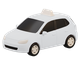
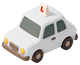
REG-793: auto 3D nuova come quella della copertina Home
Auto clay tondeggiante con cartello L, rigenerata su Gemini e ricolorata
nei 10 colori del backend (stessi nomi e tela: cambia ovunque via car34Art).
Ricetta copertine/auto in design-system §0.9, script dei colori e dei verdi
in scripts/, riga car34Art in impact-map.

diff --git a/scripts/auto-colori.py b/scripts/auto-colori.py
@@ -1,0 +1,90 @@
+"""Auto rossa su bianco (Gemini) -> PNG trasparenti auto-34-<colore>{,@2x,@3x}.png.
+
+python3 scripts/auto-colori.py <auto-rossa.png|jpeg> assets/road/cars
+Ricetta e prompt: docs/design-system.md §0.9 «Copertine e auto» (REG-793).
+Il corpo rosso (componente rossa più grande) prende il colore del veicolo
+mantenendo luci e ombre; la L rossa sul cartello resta rossa.
+"""
+import sys, colorsys
+import numpy as np
+from PIL import Image, ImageFilter
+from scipy import ndimage
+
+src, out = sys.argv[1], sys.argv[2]
+im = Image.open(src).convert('RGB')
+a = np.asarray(im).astype(np.float32) / 255.0
+H, W, _ = a.shape
+
+# 1) sfondo: bianco quasi puro collegato ai bordi
+mx, mn = a.max(2), a.min(2)
+white = (mn > 0.90) & (mx - mn < 0.06)
+lab, _ = ndimage.label(white)
+border = set(np.unique(np.concatenate([lab[0], lab[-1], lab[:, 0], lab[:, -1]]))) - {0}
+bg = np.isin(lab, list(border))
+fg = ~bg
+fg = ndimage.binary_fill_holes(fg)
+fg = ndimage.binary_opening(fg, iterations=2)
+# tieni solo l'oggetto principale
+lab2, n2 = ndimage.label(fg)
+if n2 > 1:
+    sizes = ndimage.sum(fg, lab2, range(1, n2 + 1))
+    fg = lab2 == (1 + int(np.argmax(sizes)))
+alpha = Image.fromarray((fg * 255).astype(np.uint8)).filter(ImageFilter.GaussianBlur(1.2))
+alpha = np.asarray(alpha).astype(np.float32) / 255.0
+alpha = np.clip((alpha - 0.15) / 0.85, 0, 1)
+
+# 2) corpo rosso: solo tinta rossa satura (esclude paraurti marrone, fari gialli,
+#    gomme scure, cartello crema); poi i riflessi rosati collegati al corpo
+hsv = np.asarray(im.convert('HSV')).astype(np.float32)
+hh, ss, vv = hsv[..., 0], hsv[..., 1], hsv[..., 2]
+redhue = (hh <= 14) | (hh >= 245)
+red = redhue & (ss >= 110) & (vv >= 60) & fg
+red = ndimage.binary_opening(red, iterations=1)
+lab3, n3 = ndimage.label(red)
+sizes = ndimage.sum(red, lab3, range(1, n3 + 1))
+big = sizes.max()
+body = np.isin(lab3, [i + 1 for i, sz in enumerate(sizes) if sz > 0.05 * big])
+soft = ((hh <= 16) | (hh >= 240)) & (ss >= 60) & (vv >= 150) & fg
+body = ndimage.binary_propagation(body, mask=soft | body)
+v = mx
+# bordo morbido del corpo per non lasciare aloni rossi
+bodyw = ndimage.gaussian_filter(body.astype(np.float32), 1.0)
+vref = float(np.median(v[body]))
+factor = v / max(vref, 1e-6)
+
+TARGETS = {
+    'bianco': (243, 240, 236, 0.55),
+    'argento': (212, 213, 214, 0.7),
+    'grigio': (145, 147, 149, 0.9),
+    'nero': (62, 62, 64, 1.0),
+    'rosso': None,
+    'arancio': (232, 112, 40, 1.0),
+    'giallo': (240, 190, 40, 1.0),
+    'verde': (52, 150, 100, 1.0),
+    'azzurro': (90, 176, 212, 1.0),
+    'blu': (36, 70, 140, 1.0),
+}
+
+def save(rgb, name):
+    rgba = np.dstack([np.clip(rgb, 0, 1), alpha])
+    img = Image.fromarray((rgba * 255).round().astype(np.uint8), 'RGBA')
+    img = img.crop(img.getbbox())
+    for scale, (cw, ch) in (('@3x', (240, 195)), ('@2x', (160, 130)), ('', (80, 65))):
+        pad = round(cw * 0.02)
+        k = min((cw - 2 * pad) / img.width, (ch - 2 * pad) / img.height)
+        t = img.resize((max(1, round(img.width * k)), max(1, round(img.height * k))), Image.LANCZOS)
+        canvas = Image.new('RGBA', (cw, ch), (0, 0, 0, 0))
+        canvas.paste(t, ((cw - t.width) // 2, ch - pad - t.height), t)
+        canvas.save(f'{out}/auto-34-{name}{scale}.png', optimize=True)
+
+for name, tgt in TARGETS.items():
+    if tgt is None:
+        rgb = a
+    else:
+        tr, tg, tb, k = tgt
+        f = 1 + k * (factor - 1)
+        col = np.stack([np.full((H, W), tr / 255), np.full((H, W), tg / 255), np.full((H, W), tb / 255)], -1) * f[..., None]
+        # riflessi: un po' di bianco dove l'originale era molto chiaro
+        rgb = a * (1 - bodyw[..., None]) + col * bodyw[..., None]
+    save(rgb, name)
+    print('ok', name)

diff --git a/scripts/sbiadisci-verdi.py b/scripts/sbiadisci-verdi.py
@@ -1,0 +1,32 @@
+"""Sbiadisce SOLO i verdi di un'illustrazione (prati, alberi), lasciando gli altri colori.
+
+python3 scripts/sbiadisci-verdi.py <ingresso.jpg> <uscita.jpg> [saturazione] [schiarita] [gradi-verso-giallo]
+Default = «molto forte» scelto da Tiziano per la copertina della Home (REG-793):
+saturazione rimasta 0.42 (−58%), schiarita 0.25 verso il bianco, tinta −8° (resta calda).
+Altre prove: lieve 0.80/0.08/0, media 0.66/0.15/0, forte 0.55/0.20/5.
+"""
+import sys
+import numpy as np
+from PIL import Image
+
+src, dst = sys.argv[1], sys.argv[2]
+ks = float(sys.argv[3]) if len(sys.argv) > 3 else 0.42
+kv = float(sys.argv[4]) if len(sys.argv) > 4 else 0.25
+dh = float(sys.argv[5]) if len(sys.argv) > 5 else 8
+
+im = Image.open(src).convert('RGB')
+hsv = np.asarray(im.convert('HSV')).astype(np.float32) / 255
+h, s, v = hsv[..., 0] * 360, hsv[..., 1], hsv[..., 2]
+
+
+def bump(x, lo, hi, soft):
+    return np.clip((x - lo) / soft, 0, 1) * np.clip((hi - x) / soft, 0, 1)
+
+
+# peso morbido sulle tinte verdi (65°–175°), solo dove c'è colore
+w = bump(h, 65, 175, 15) * np.clip((s - 0.12) / 0.15, 0, 1)
+s2 = s * (1 - w * (1 - ks))
+v2 = v + (1 - v) * kv * w
+h2 = (h - dh * w) % 360
+arr = np.dstack([h2 / 360, s2, v2])
+Image.fromarray((np.clip(arr, 0, 1) * 255).round().astype(np.uint8), 'HSV').convert('RGB').save(dst, quality=92)

diff --git a/docs/design-system.md b/docs/design-system.md
@@ -211,7 +211,7 @@ fissa** (saluto + titolo + bottoni) perché sotto scorre la griglia.
 `ClayPageHeader` (testata dentro lo scroll, che non collassa) resta **solo
 nell'app allievo**, in attesa del suo giro.
 
-**Copertina elastica** (REG-661, 30/10, `src/components/clay/StretchyCover.tsx`): per le pagine con mappa o illustrazione in alto (home Road, Punti critici, allievo: Home `home-quartiere`, Guide `guide-strada`, Scambi `scambi-chiavi`). Le illustrazioni di copertina riempiono tutto il quadro (niente diorama sul vuoto), colori caldi e verdi sbiaditi, soggetto in basso a sinistra/centro: in alto a destra c'è la campanella. La copertina sta dietro lo scroll; copertina e foglio scorrono insieme; tirando giù la copertina si allarga ancorata in alto (niente vuoto bianco), scorrendo su sale a metà velocità. Con poco contenuto la copertina riempie lo spazio, il foglio arriva alla tab bar e lo scroll si ferma dove finisce il contenuto. Solo transform guidati dallo scroll; cambi di altezza in 220 ms senza rimbalzo.
+**Copertina elastica** (REG-661, 30/10, `src/components/clay/StretchyCover.tsx`): per le pagine con mappa o illustrazione in alto (home Road, Punti critici, allievo: Home `home-quartiere`, Guide `guide-strada`, Scambi `scambi-chiavi`). Ricetta in §0.9 «Copertine e auto». Le illustrazioni di copertina riempiono tutto il quadro (niente diorama sul vuoto), colori caldi e verdi sbiaditi, soggetto in basso a sinistra/centro: in alto a destra c'è la campanella. La copertina sta dietro lo scroll; copertina e foglio scorrono insieme; tirando giù la copertina si allarga ancorata in alto (niente vuoto bianco), scorrendo su sale a metà velocità. Con poco contenuto la copertina riempie lo spazio, il foglio arriva alla tab bar e lo scroll si ferma dove finisce il contenuto. Solo transform guidati dallo scroll; cambi di altezza in 220 ms senza rimbalzo.
 
 ### 0.6 Fogli — adattivi, testata fissa e opaca, CTA fissa, X, niente grabber
 
@@ -417,6 +417,65 @@ reference di Gabriele con cui è stato approvato il metodo il 28/10/2026.
 **Autorizzazione:** le sessioni di sviluppo sono AUTORIZZATE da Tiziano a usare
 il Mac a CONTROLLO COMPLETO (usa_il_mac, non limitato a Chrome) per generare le
 icone su Gemini, senza chiedere.
+
+#### Copertine e auto (REG-793, 25/11/2026)
+
+**Copertine delle sezioni allievo** (Home `home-quartiere`, Guide `guide-strada`,
+Scambi `scambi-chiavi`; vedi la copertina elastica in §0.5). Regole venute
+dalle bocciature di Tiziano: scena a **pieno quadro** (niente diorama o isola
+sul vuoto, niente fondo vuoto), **pochissimo grigio** (strade solo come nastri
+crema, mai asfalto o piazzali), colori caldi dagli oggetti, soggetto **in basso
+a sinistra/al centro** (in alto a destra c'è la campanella, in basso il foglio
+che sale). Una scena per chat nuova su Gemini, 3 allegati: le 2 reference di
+stile (`docs/assets/icone-ref/ref1.png`, `ref2.png`) + la copertina di Guide
+(`assets/vita/guide-strada@3x.jpg`) come reference di **composizione**. Prompt
+della Home (le altre scene cambiano solo la riga `Scene:`):
+
+```
+Premium 3D clay illustration in the spirit of Airbnb's 2025 app icons: real-world objects, softly simplified, friendly but adult, clean rounded shapes. Material: matte satin soft-touch clay, slightly puffy edges, generous rounded bevels. Light: bright warm morning sunlight from the top-left, golden and cheerful, soft ambient occlusion, short soft WARM shadows (peachy), never grey. Mood: lively, happy, a sunny "good morning", immersive.
+
+Format and composition: wide landscape 3:2. The scene FILLS THE ENTIRE FRAME edge to edge, like the third attached image (a road that enters and leaves the frame): it is a close-up crop of a bigger world, seen from above at about 40 degrees. Lawns, roads, trees and flowers touch and run off all four edges of the image. NO diorama, NO island, NO floating platform, NO empty background, NO visible ground edge, no horizon. Keep the top-right corner a little calmer (only soft lawn, no tall or busy objects there) and keep the bottom strip simple (lawn or road) because it will be covered. Put the most important objects in the centre and left-centre.
+
+Colours: vivid fresh leaf greens #2FA36B and #6CC08B for lawns and round trees, light warm cream #F1E9DD for roads and paths with white dashes, warm off-white #FAF7F2 for buildings, one signal red #E5484D car, touches of sunny yellow #F5C542 and warm orange #F5A524 (flowers, awnings, cones). Very little grey. No blue, no pink, no purple. Not photorealistic, no emoji style, no faces, no people, no logos, no watermark, no text.
+
+Use the first two attached images as style reference for material and light, and the third image as reference for the full-frame composition.
+
+Scene: a close-up of a cosy neighbourhood. In the centre-left a small friendly off-white driving-school building with a rounded roof edge and a sunny yellow striped awning, surrounded by round green trees and bushes that run off the left and bottom edges. A light cream street passes in front of it and leaves the frame on both sides; a red driving-school car with a small white roof sign showing a red letter L (the only letter allowed) is parked in front. Small orange and yellow flowers in the lawn. Green lawn fills the rest of the frame.
+```
+
+Dopo la generazione i verdi si **sbiadiscono** a mano (Tiziano: «troppo
+accesa»): `python3 scripts/sbiadisci-verdi.py <in.jpg> <out.jpg>` (default
+«molto forte»: saturazione dei verdi −58%, più chiari, tinta 8° verso il giallo
+perché restino caldi; tocca solo 65°–175°, auto/tende/fiori restano uguali).
+Poi 1x/@2x/@3x = 390/780/1170 px di larghezza, JPEG 82.
+
+**Auto 3D** (`assets/road/cars/auto-34-<colore>`, usata ovunque da
+`car34Art`): l'auto della copertina — clay tondeggiante, fari gialli, cartello
+bianco a cuneo con la L rossa. Reference: il ritaglio dell'auto dalla copertina
+(UN solo allegato). Prompt:
+
+```
+Create a 3D clay icon of the small red car in the attached image, on its own: a cute compact rounded car, red body, dark grey windows, round yellow headlights, dark grey bumper, dark round wheels, and a small white wedge sign on the roof with a red letter L. Soft matte clay material with rounded puffy edges, soft warm light from the top-left. Three-quarter front view from slightly above, the car facing left, whole car centered and filling most of the square frame. Plain pure white background, no floor, no shadow, nothing else.
+```
+
+Poi i 10 colori del backend (`CAR_COLOR_KEYS`) con
+`python3 scripts/auto-colori.py <auto-rossa.png> assets/road/cars`: toglie il
+bianco attorno (alfa morbida), ricolora solo la carrozzeria tenendo luci e
+ombre. La carrozzeria si riconosce dalla **tinta**: rosso saturo (tinta PIL
+≤14 o ≥245, saturazione ≥110, luminosità ≥60) + i riflessi rosati collegati;
+così paraurti marrone, fari gialli, gomme scure e cartello crema restano
+com'erano e la L (staccata dal corpo) resta rossa. Controllare sempre il
+foglio coi 10 colori prima di copiare: se un pezzo nuovo del modello cambia
+colore, va stretta la soglia. Lo script scrive i PNG con gli stessi nomi e la stessa tela (240×195 @3x, auto
+appoggiata in basso): l'auto cambia in tutta l'app senza toccare il codice.
+
+Auto attuale: generata il 26/11 al primo tentativo con questo prompt.
+
+**Note operative** (25/11): con l'operatore del Mac UNA immagine per chiamata;
+dopo il download prendere solo il file di Download con l'orario di adesso
+(`ls -ltT`) e copiarlo con `cp`, mai `mv`. Dopo ~15 generazioni in un giorno
+Gemini può rifiutare tutto («I'm having a hard time…») senza avviso di quota:
+riprovare più tardi.
 
 ### 0.10 Componenti — `src/components/clay/` (import da `src/components/clay`)
 

diff --git a/docs/impact-map.md b/docs/impact-map.md
@@ -7,6 +7,7 @@ When modifying a feature, read its connected features to verify nothing breaks.
 | Component | Used by screens | Notes |
 |-----------|----------------|-------|
 | `src/components/clay/*` (clay v2, REG-639: `ClayButton`, `ClayIconButton`, `ClaySurface`, `ClayList/Row`, `ClaySearchField`, `ClaySegmented`, `Avatar`, `ClayMapControls`, `ClayStat`, `Icon3D`, e dalla notte del 28/10 `ClaySection`, `ClayToggle`, `ClayField`, `ClayEmpty`) + `theme/clay.ts`, icone 3D in `src/road/markerArt.ts` e `src/theme/moraleArt.ts` (§0.9) | Road: `drive/index`, `drive/avvia`, `app/road/index`, `riepilogo`, `segnala`, `home/road-*`, `manage-lesson-details` (variante `road`); dal 28/10 notte **tutta l'app istruttore/titolare**: Agenda (`IstruttoreHomeScreen`, `WeeklyAgendaView`, ~30 fogli di `home/`), Disponibilità (`InstructorAvailabilityScreen`, `DefaultAvailabilityEditor`, `PublicationModeEditor`, fogli di `role/`), tab «Tu» e sottosezioni (`MoreScreen`, `SettingsScreen`, `InstructorHoursScreen`, `VehiclesScreen`, `LocationsScreen`, `EvaluationSheetScreen`, `AppearanceSettingsScreen`, `OwnerInstructorScreen`, fogli di `more/`), `NotificationInboxScreen`, `RoadLessonCard`; **tutti i fogli** via la X (`SheetCloseButton`/`GlassCloseButton` → `ClayIconButton`) (la tab bar `AppTabBar` NON è clay: resta T1 piatta) | Toccare un preset di `CLAY_SHADOW` o un componente cambia tutte queste schermate. `RoadPressable`/`RoadAvatar` sono alias di `ClayPressable`/`Avatar`. Regole in design-system §0. |
+| `car34Art` (`src/road/markerArt.ts`) → `assets/road/cars/auto-34-<colore>{,@2x,@3x}.png` | allievo: Home (`AllievoHomeScreen`, `allievoHome/HomeSections`), `StudentGuideScreen`, `UpcomingLessonRow` («In programma»), `LessonSheetParts` (foglio guida), `LeaveLessonSheet`, `LessonReview`; istruttore/titolare: `RoadTabParts` (`RouteThumb`), `avvioParts`, `VehiclesScreen`, `createKinds` (agenda), `BookingForm`, `bookingExceptionParts`; `Icon3D` | REG-793 (26/11): l'auto della copertina Home. Sostituire i PNG (stessi nomi, tela 240×195 @3x, auto appoggiata in basso) cambia l'auto in TUTTE queste schermate senza toccare il codice. Ricetta e script dei colori in design-system §0.9 «Copertine e auto». |
 | `src/components/SheetScaffold.tsx` (`FormSheet`, `useSheetDismissGuard`) + `src/utils/sheetPresentation.ts` (`FORM_SHEET`) | ~70 fogli `FORM_SHEET` in `home/`, `more/`, `role/`, `drive/`, `road/` | REG-639 fluidità: i fogli si chiudono trascinando giù / toccando fuori. Un foglio che salva deve passare `busy` (e `dirty` se perde modifiche); un foglio che chiude con effetti `closeOnGesture`. La testata fissa è trasparente a riposo. `useSheetAnticipate` (28/10): chi chiude contenuto in altezza annuncia i px all'inizio, il foglio si accorcia insieme (oggi solo Pagamenti); l'altezza annunciata vale finché la misura non la raggiunge, max 700 ms. |
 | `src/components/FadeImage.tsx` + `src/services/userPhotos.ts` + `src/services/photoDiskCache.ts` (usati da `UserPhotoCircle` → `Avatar`) | tutti gli avatar (Allievi, Road, dettaglio allievo, picker, Tu), copertina sede (Disponibilità, Luoghi), foto profilo (Tu, Altro, editor) | Giro Road 28/10: `useUserPhotoUrl` restituisce `undefined` finché non si sa (skeleton), `null` senza foto. Mappa URL persistita in AsyncStorage `reglo.userPhotos.v1` (stale-while-revalidate); file foto in `cacheDirectory/photos/`. Entrambe svuotate all'uscita dall'account (`clearUserPhotoCache`). |
 | `src/components/AppTabBar.tsx` + `src/components/tabBarSpace.ts` + `app/(tabs)/_layout.tsx` (`sceneStyle`, `FULL_PAGES`) | tutte le schermate dentro le tab (tutti i ruoli); radici istruttore sotto il vetro: `IstruttoreHomeScreen` (FAB), `WeeklyAgendaView` (griglia), `drive/index`, `InstructorNotesScreen`, `MoreScreen` | Giro Road 28/10: barra in vetro sopra le schermate. Nuova pagina a schermo pieno (non foglio) nelle pile `home`/`drive`/`notes`/`more` → aggiungerla a `FULL_PAGES`, altrimenti il fondo finisce sotto la barra. Nuova radice istruttore che scorre → `useTabBarOverlap()` in fondo. Tab Road: `useInstructorTabs` (cache impostazioni finché `roadStore.roadKnown` è falso) + velo in `AuthGate`. REG-700: dentro la barra c'è `RoadMiniBar` (Road ridotta, `src/road/miniStore.ts` + `RoadController`): quando c'è, la barra è più alta e `useTabBarHeight`/`useTabBarOverlap` crescono con lei. |
